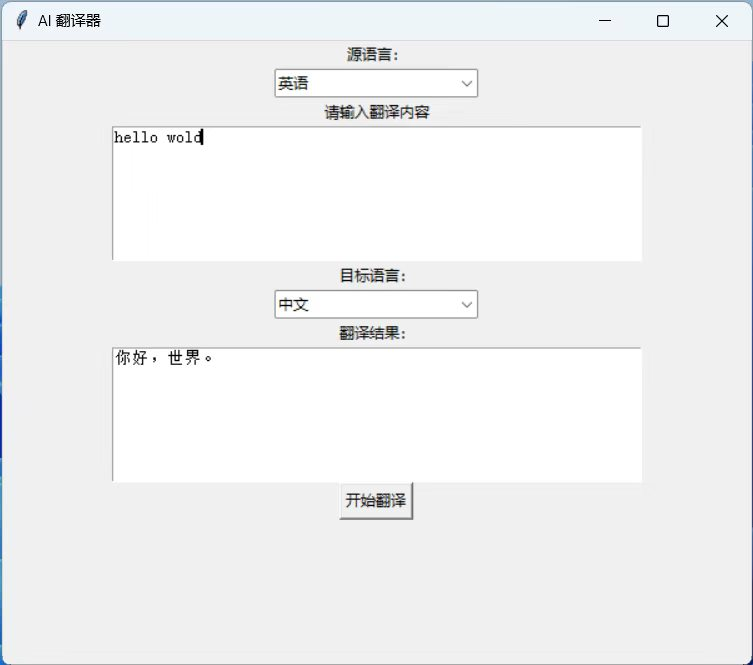
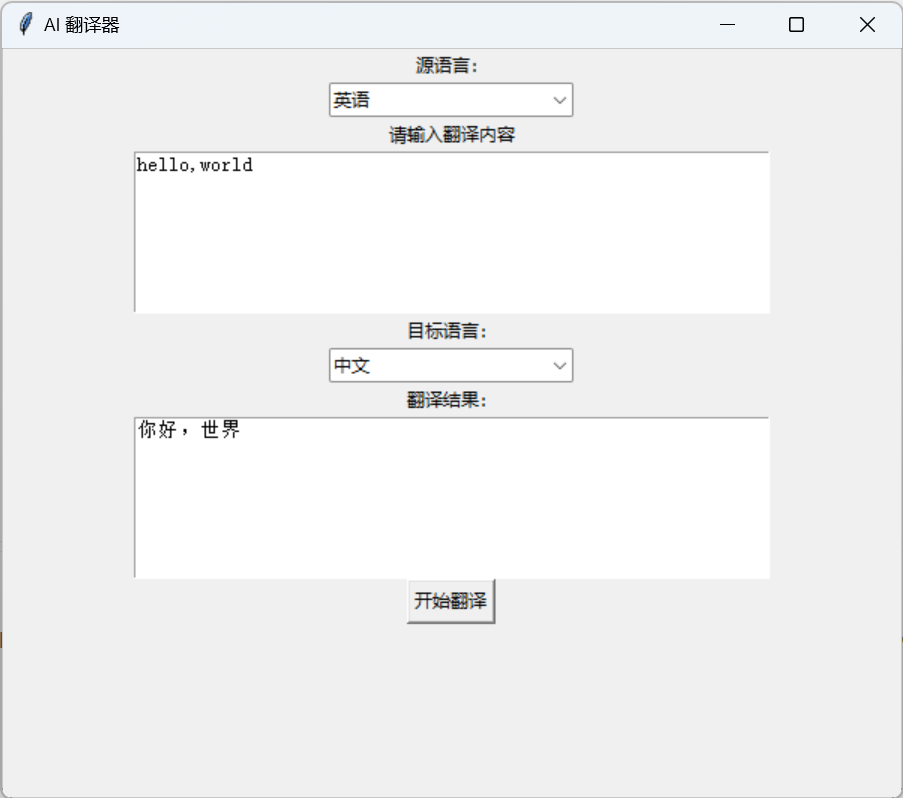
完善翻译核心稳定性

diff --git a/translate.py b/translate.py
@@ -1,33 +1,174 @@
 import os
-from logger import logger
-from openai import OpenAI 
-from dotenv import load_dotenv
-load_dotenv()
-api_key = os.environ.get("DEEPSEEK_API_KEY")
-def translate (text,source_language,target_language):
 
+from dotenv import load_dotenv
+from openai import (
+    APIConnectionError,
+    APIStatusError,
+    APITimeoutError,
+    AuthenticationError,
+    OpenAI,
+    RateLimitError,
+)
+
+from logger import logger
+
+
+load_dotenv()
+
+MAX_TEXT_LENGTH = 10_000
+REQUEST_TIMEOUT = 30.0
+
+
+class TranslationError(Exception):
+    """翻译错误基类。"""
+
+
+class TranslationConfigError(TranslationError):
+    """配置错误。"""
+
+
+class TranslationAuthError(TranslationError):
+    """认证错误。"""
+
+
+class TranslationNetworkError(TranslationError):
+    """网络或请求超时错误。"""
+
+
+class TranslationRateLimitError(TranslationError):
+    """API 限流错误。"""
+
+
+class TranslationServerError(TranslationError):
+    """翻译服务端错误。"""
+
+
+class TranslationResponseError(TranslationError):
+    """API 响应格式错误。"""
+
+
+class TranslationInputError(TranslationError):
+    """翻译输入错误。"""
+
+
+def _validate_input(text, source_language, target_language):
+    """校验翻译输入。"""
+    if not isinstance(text, str) or not text.strip():
+        raise TranslationInputError("翻译内容不能为空")
+
+    if len(text) > MAX_TEXT_LENGTH:
+        raise TranslationInputError(
+            f"翻译内容不能超过 {MAX_TEXT_LENGTH} 个字符"
+        )
+
+    if not isinstance(source_language, str) or not source_language.strip():
+        raise TranslationInputError("源语言不能为空")
+
+    if not isinstance(target_language, str) or not target_language.strip():
+        raise TranslationInputError("目标语言不能为空")
+
+
+def _get_api_key():
+    """读取并校验 API Key。"""
+    api_key = os.getenv("DEEPSEEK_API_KEY", "").strip()
+
+    if not api_key:
+        raise TranslationConfigError(
+            "未配置 DEEPSEEK_API_KEY"
+        )
+
+    return api_key
+
+
+def translate(text, source_language, target_language):
+    """调用 DeepSeek API 完成翻译。"""
     logger.info("开始翻译")
 
-    try :
+    _validate_input(text, source_language, target_language)
+    api_key = _get_api_key()
+
+    try:
         client = OpenAI(
-            api_key = api_key ,
-            base_url="https://api.deepseek.com")
+            api_key=api_key,
+            base_url="https://api.deepseek.com",
+            timeout=REQUEST_TIMEOUT,
+        )
+
         response = client.chat.completions.create(
             model="deepseek-v4-pro",
             messages=[
-                {"role": "system", "content": "你是一个专业的翻译，只输出结果，不要解释"},
-                {"role": "user", "content": f"请将下面内容从{source_language}翻译成{target_language}:\n{text}"},
+                {
+                    "role": "system",
+                    "content": (
+                        "你是一个专业的翻译，只输出翻译结果，不要解释。"
+                    ),
+                },
+                {
+                    "role": "user",
+                    "content": (
+                        f"请将下面内容从{source_language.strip()}翻译成"
+                        f"{target_language.strip()}:\n{text}"
+                    ),
+                },
             ],
             stream=False,
         )
-        logger.info("翻译成功")
-        
-        return(response.choices[0].message.content)
 
-    except Exception as e :
-        logger.error(f"翻译失败:{e}")
-        return f"""翻译失败
-"""
+    except AuthenticationError as exc:
+        logger.error("API 认证失败")
+        raise TranslationAuthError(
+            "API 认证失败，请检查 DEEPSEEK_API_KEY"
+        ) from exc
 
-if __name__ =="__main__":
+    except (APITimeoutError, APIConnectionError) as exc:
+        logger.error("API 网络请求失败或超时")
+        raise TranslationNetworkError(
+            "无法连接翻译服务或请求超时"
+        ) from exc
+
+    except RateLimitError as exc:
+        logger.error("API 请求被限流")
+        raise TranslationRateLimitError(
+            "请求过于频繁，请稍后重试"
+        ) from exc
+
+    except APIStatusError as exc:
+        status_code = getattr(exc, "status_code", None)
+
+        if status_code is not None and 500 <= status_code < 600:
+            logger.error(
+                "翻译服务端错误，状态码：%s",
+                status_code,
+            )
+            raise TranslationServerError(
+                "翻译服务暂时不可用，请稍后重试"
+            ) from exc
+
+        logger.error(
+            "翻译 API 请求失败，状态码：%s",
+            status_code,
+        )
+        raise TranslationError(
+            "翻译 API 请求失败"
+        ) from exc
+
+    try:
+        content = response.choices[0].message.content
+    except (AttributeError, IndexError, KeyError, TypeError) as exc:
+        logger.error("API 返回结构异常")
+        raise TranslationResponseError(
+            "翻译服务返回了无法识别的结果"
+        ) from exc
+
+    if not isinstance(content, str) or not content.strip():
+        logger.error("API 返回空翻译结果")
+        raise TranslationResponseError(
+            "翻译服务返回了空结果"
+        )
+
+    logger.info("翻译成功")
+    return content.strip()
+
+
+if __name__ == "__main__":
     pass

diff --git a/gui.py b/gui.py
@@ -10,6 +10,7 @@ window.geometry("600x500")
 source_label = tk.Label(window, text="源语言：")
 source_label.pack()
 
+
 source_language = ttk.Combobox(
     window,
     values=["中文", "英语", "日语", "韩语"],

diff --git a/AGENTS.md b/AGENTS.md
@@ -1,0 +1,17 @@
+# 项目协作规则
+
+## 修改流程
+
+- 一次只处理一个文件。
+- 当前文件修改完成并经用户确认后，才进入下一个文件。
+- 每一步操作都必须说明操作目的、涉及内容和预期影响。
+- 助手只提供指导，不直接修改文件或执行命令。
+- 遇到会影响实现的未明确事项时，先向用户提问。
+- 每个文件完成后，先进行针对该文件的检查，再等待用户确认。
+
+## 项目范围
+
+- 遵循用户当前指定的实施阶段和文件范围。
+- 不擅自修改与当前阶段无关的文件。
+- 不读取、输出或提交 `.env` 中的真实 API Key。
+- 不提交密钥、日志、缓存或测试生成文件。
